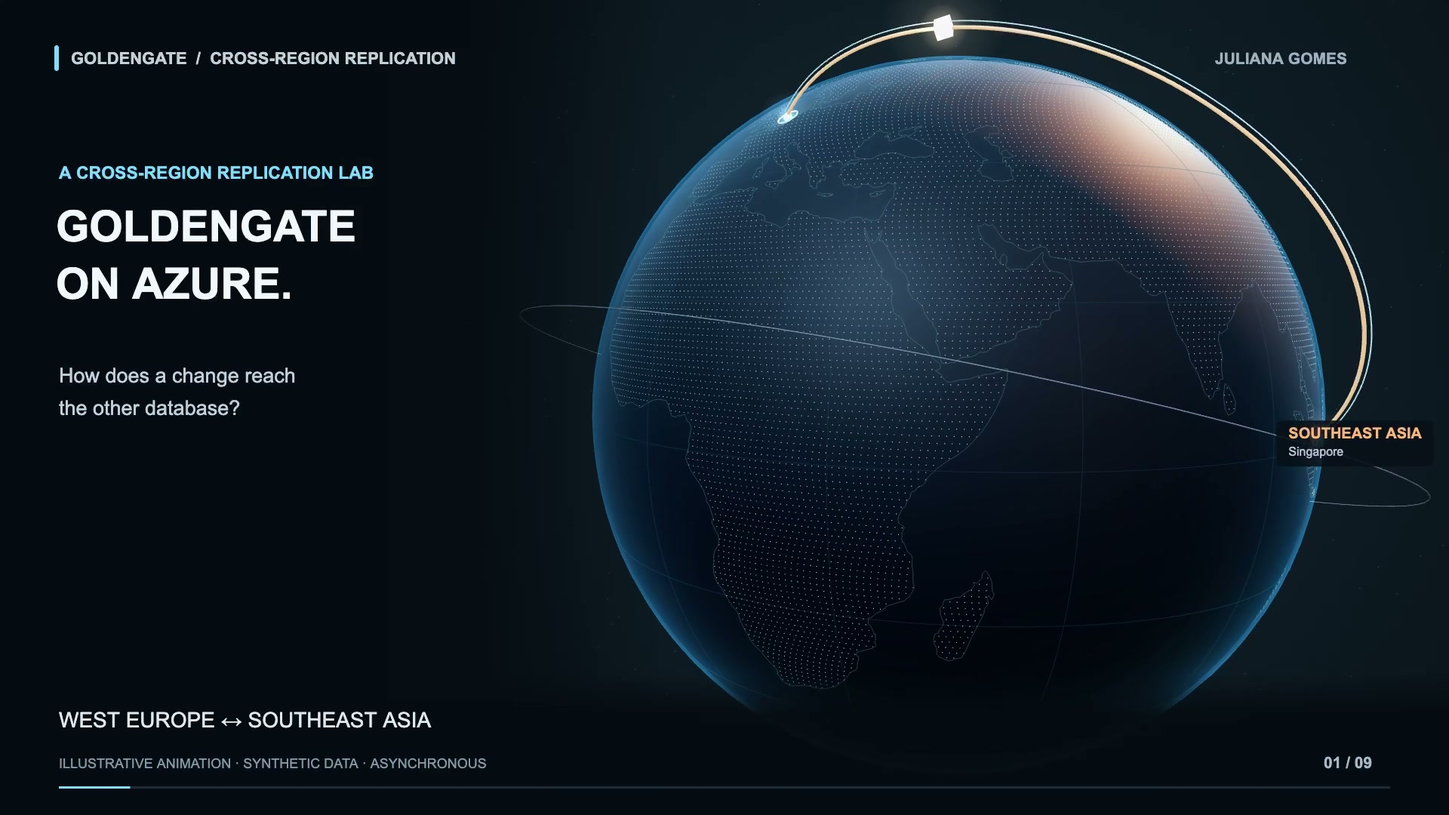
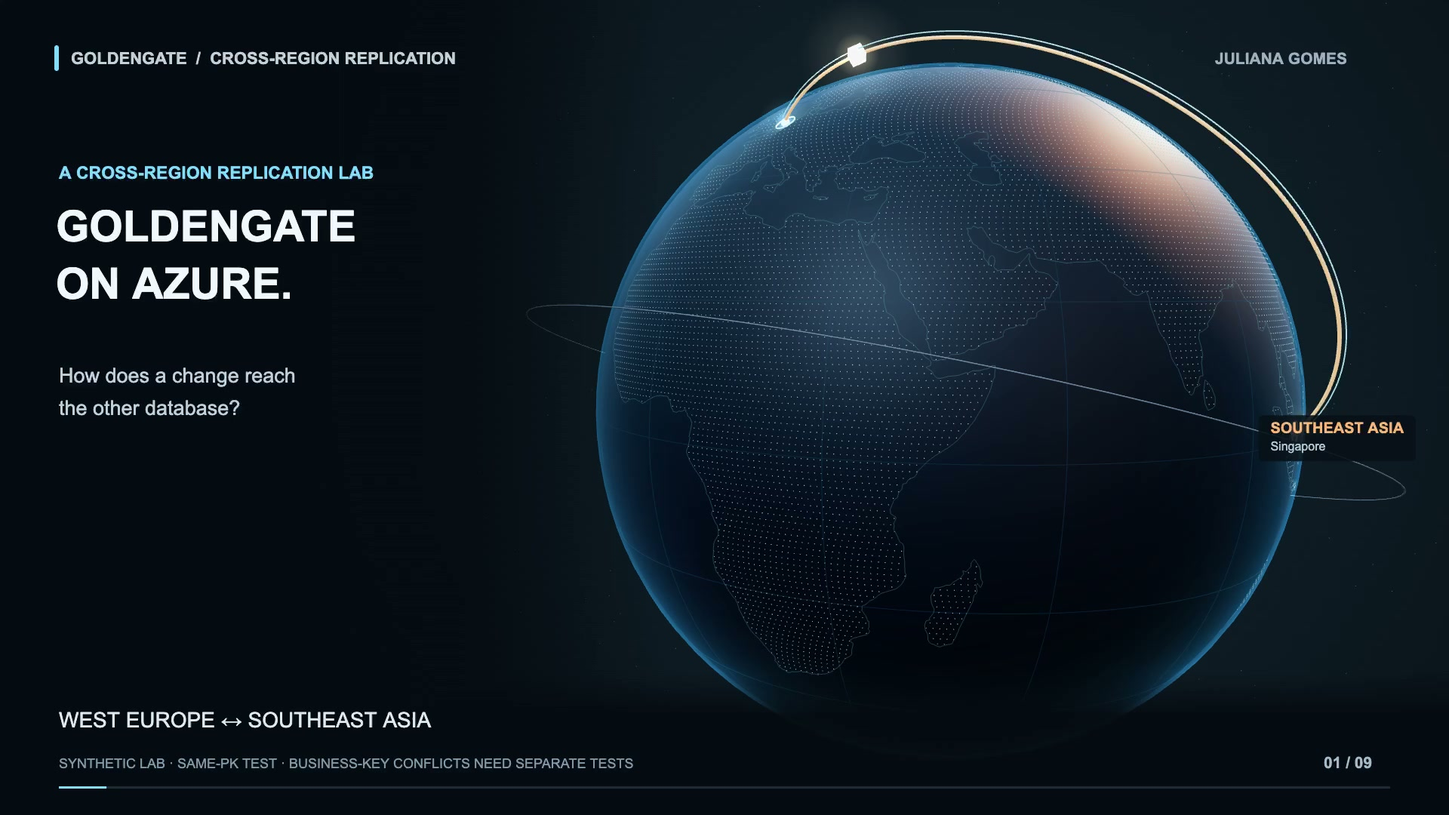
Sync reviewed content - 2026-10-20 v3
Align the public walkthrough with the reviewed Word and completed lab: same-PK Auto-CDR scope, local Replicat/Extract tag matching, network choices, and stopped lab status. Public runtime assets only.

diff --git a/model.js b/model.js
@@ -48,17 +48,19 @@
     return {nodes, edges};
   }
   const docs = {
+    tags: {kicker:'LOOP PREVENTION',title:'Match tags within each database',body:'The Replicat tags the transactions it applies. The Extract reading that same database excludes the tag, preventing those transactions from being captured again.',rows:[['WEU','RWEUP SETTAG 01 → EWEU EXCLUDETAG 01'],['SEA','RSEA SETTAG 01 → ESEA EXCLUDETAG 01'],['Choosing a value','01 on both sites is the lab choice. Different sites can use different values if each local pair matches.']],links:['replication','operations'],note:'Review the tag policy when adding replication paths. Loop prevention does not resolve application conflicts.'},
+    business: {kicker:'APPLICATION CONFLICTS',title:'Different job IDs for the same request',body:'GENERATION_JOB_ID is the primary key; EXECUTION_REQUEST_ID has a unique constraint. WEU creates job A for request X while SEA creates job B for that same request before replication arrives. Both inserts can succeed locally. Applying the other job then conflicts with the existing request key.',rows:[['What the demo proves','Two updates to the same primary key converge in the controlled test.'],['What it does not prove','How to merge different jobs, their child rows, reports or notifications.'],['Application decision','Assign request ownership or coordinate request handling. Reconcile existing duplicates with the application team.']],links:['cdr','scope'],note:'Enabling Auto-CDR or changing Replicat mode does not by itself define the business outcome. A local unique constraint cannot coordinate independent writes in two regions.'},
     overview: {kicker:'ARCHITECTURE', title:'The two-region lab', body:'I used one Autonomous Database and one GoldenGate deployment in each region. Applications can write to either database. Each deployment captures local changes and applies those received from the other region.', rows:[['Regions','Azure West Europe ↔ Southeast Asia'],['Paired OCI regions','Amsterdam for WEU; Singapore for SEA.'],['Lab sizing','Each ADB: 2 ECPUs / 20 GB. Each OGG: 1 OCPU, Development or testing. Autoscaling off.'],['Test data','The same empty table in each database, with an ID primary key.']], next:1, links:['admin','scope'], note:'These are lab settings. Size a production deployment for its workload; the drawing does not represent physical hardware or actual distances.'},
     network: {kicker:'CONNECTIVITY',title:'Configure peering, rules and DNS',body:'Start by peering each GoldenGate VNet with its local database VNet, then peer the two GoldenGate VNets across regions. Create and assign the Dedicated connections before using their Ingress IPs in destination rules. Configure private DNS and test from GoldenGate.',rows:[['Replication peerings','OGG ↔ DB in WEU; OGG ↔ DB in SEA; OGG WEU ↔ OGG SEA.'],['Advanced Networking','Registered before creating the delegated subnets in this lab.'],['Database connection','TLS / TCP 1521; no mTLS wallet in this lab.'],['GoldenGate connection','WSS / TCP 443 to the remote deployment FQDN.'],['Anchors','A global Resource Anchor maps the resource group to an OCI compartment. The regional Network Anchor identifies the network context.']],next:2,links:['rules','dns','iam','admin'],note:'VNet peering is not transitive. We used another direct peering so the administration VM could reach the remote database.'},
-    replication: {kicker:'REPLICATION',title:'Capture, transport and apply',body:'The sequence is the same in both directions: Extract writes local changes to a trail, Distribution sends the records to the other region, and the Receiver writes the incoming trail. Parallel Integrated Replicat reads it and updates the database.',rows:[['WEU → SEA','EWEU → ew → PWEU → Receiver → RSEA'],['SEA → WEU','ESEA → es → PSEA → Receiver → RWEUP'],['Loop prevention','Local Replicat SETTAG 01 matches local Extract EXCLUDETAG 01.'],['DDL','Not replicated in this lab. Keep table definitions aligned separately.']],links:['preparation','cdr','operations'],note:'The animations use fixed timing to explain the sequence. They do not show measured replication latency.'},
-    rules: {kicker:'SECURITY RULES',title:'Use the connection endpoint IP.',body:'For the database connection, permit the Dedicated connection ingress IP as a source in the database NSG. Do not assume this is the same address as the GoldenGate deployment.',rows:[['Database ingress','Dedicated DB connection ingress IP /32 → database. Case range: TCP 1521–1530; actual TLS service: 1521.'],['OGG-side egress','Allow the database destination and the remote OGG destination on their required ports.'],['OGG-to-OGG','Outbound TCP 443 and matching remote ingress. Inventory the assigned GG connection endpoints.'],['Administration','Private VM → consoles TCP 443 and databases TCP 1521, using separately scoped rules.']],links:['iam','network'],note:'The recorded lab retained broader inherited/default rules. This diagram is a flow explanation, not a complete least-privilege rules export.'},
-    dns: {kicker:'PRIVATE DNS',title:'Check DNS from GoldenGate',body:'A hostname may resolve from the administration VM but still fail from GoldenGate. In this lab, each OGG resolver has the local ADB private view and a local view containing a record for the remote GoldenGate hostname.',rows:[['Local database','Associate its private view with the OGG runtime resolver.'],['Remote GoldenGate','A private single-host zone maps the remote FQDN to its private IP. TTL: 3600.'],['Administration VM','Link the Azure private DNS zones to the VM VNet.'],['Address changes','Update static A records if an endpoint IP changes.']],links:['network'],note:'Keep the service FQDN and certificate validation enabled. After configuring DNS, test the assigned connection from GoldenGate as well as access from the VM.'},
+    replication: {kicker:'REPLICATION',title:'Capture, transport and apply',body:'The sequence is the same in both directions: Extract writes local changes to a trail, Distribution sends the records to the other region, and the Receiver writes the incoming trail. Parallel Integrated Replicat reads it and updates the database.',rows:[['WEU → SEA','EWEU → ew → PWEU → Receiver → RSEA'],['SEA → WEU','ESEA → es → PSEA → Receiver → RWEUP'],['Loop prevention','Local Replicat SETTAG 01 matches local Extract EXCLUDETAG 01.'],['DDL','Not replicated in this lab. Keep table definitions aligned separately.']],links:['preparation','tags','cdr','operations'],note:'The animations use fixed timing to explain the sequence. They do not show measured replication latency.'},
+    rules: {kicker:'SECURITY RULES',title:'Use the connection endpoint IP.',body:'For the database connection, permit the Dedicated connection ingress IP as a source in the database NSG. Do not assume this is the same address as the GoldenGate deployment.',rows:[['Database ingress','Dedicated DB connection ingress IP /32 → database. Case range: TCP 1521–1530; actual TLS service: 1521.'],['OGG-side egress','Allow the database destination and the remote OGG destination on their required ports.'],['OGG-to-OGG','Outbound TCP 443 and matching remote ingress. Inventory the assigned GG connection endpoints.'],['Administration','Private VM → consoles TCP 443 and databases TCP 1521, using separately scoped rules.']],links:['iam','network'],note:'The 1521–1530 allowance is a lab choice, not a universal requirement. Use the listener port in the actual descriptor. The recorded lab retained broader inherited/default rules. This diagram is a flow explanation, not a complete least-privilege rules export.'},
+    dns: {kicker:'PRIVATE DNS',title:'Check DNS from GoldenGate',body:'A hostname may resolve from the administration VM but still fail from GoldenGate. In this lab, each OGG resolver has the local ADB private view and a local view containing a record for the remote GoldenGate hostname.',rows:[['Local database','Associate its private view with the OGG runtime resolver.'],['Remote GoldenGate','The lab uses a private single-host zone and static A record. TTL: 3600; other DNS designs are possible.'],['Administration VM','Link the Azure private DNS zones to the VM VNet.'],['Address changes','Update static A records if an endpoint IP changes.']],links:['network'],note:'Keep the service FQDN and certificate validation enabled. After configuring DNS, test the assigned connection from GoldenGate as well as access from the VM.'},
     iam: {kicker:'ACCESS AND CREDENTIALS',title:'Use separate accounts for each task',body:'The cloud administrator creates and assigns resources. The GoldenGate console account manages replication processes, while database GGADMIN connects to the databases. Create GoldenGate-type connections in OCI for this setup.',rows:[['Database connection password','The lab used Oracle-managed encryption without a Vault secret. This is separate from how the deployment console password is configured.'],['Database login','Unlock and configure GGADMIN in both ADBs before testing database login.'],['Permissions','Check the linked subscription and OCI compartments, including inherited permissions.']],links:['network','scope'],note:'If you use Vault for a connection, configure the deployment’s access to its secrets. This example is not a complete IAM policy list.'},
     admin: {kicker:'MANAGEMENT PATH',title:'A private administration workspace.',body:'A private Windows VM accessed through Azure Bastion provides a browser inside the network. It is an administrator workstation, not a replication hop.',rows:[['Public inbound','No public NIC address or public inbound ports on the VM.'],['Remote database access','An additional direct peering connects the administration VNet to the remote DB VNet.'],['Boundary','The lab VM had default outbound Internet access. Private replication does not mean an air-gapped environment.']],links:['network'],note:'Bastion and the VM are outside the two-OGG, two-database data path shown in the main scene.'},
     preparation: {kicker:'DATABASE / GG CONSOLE',title:'Prepare both database copies.',body:'Start with aligned tables. In this lab, a simple ID primary key identifies each row. Enable minimal supplemental logging as a database administrator, then Auto-CDR as GGADMIN and the required GoldenGate table/schema logging.',rows:[['Database logging','Minimal supplemental logging enabled in both ADB PDBs; MINIMAL must return YES.'],['Auto-CDR','Run ADD_AUTO_CDR as database GGADMIN on both clean copies. Enable and unlock GGADMIN before DBLOGIN.'],['TRANDATA','Add and inspect schema/table logging using the local DB connection in each GG console.'],['Checkpoint and heartbeat','GGADMIN.GG_CHECKPOINT; heartbeat every 60 seconds, retention 30 days and daily purge.'],['Inventory','Count application tables separately from Auto-CDR auxiliary objects.']],code:"-- Generalized example; not executed by this page\n-- As database administrator, in the ADB PDB used in this lab:\nALTER PLUGGABLE DATABASE ADD SUPPLEMENTAL LOG DATA;\n-- Alternative for a database/container requiring that form:\n-- ALTER DATABASE ADD SUPPLEMENTAL LOG DATA;\n-- Select the appropriate form; do not run both blindly.\nSELECT MINIMAL FROM DBA_SUPPLEMENTAL_LOGGING;\n-- As database GGADMIN, on a clean prepared test table:\nBEGIN\n  SYS.DBMS_GOLDENGATE_ADM.ADD_AUTO_CDR(\n    'GG_LAB', 'REPLICATION_TEST');\nEND;\n/",links:['cdr','operations'],note:'Database logging does not replace TRANDATA. SEA recorded SchedulingColumns; the saved WEU screenshot did not show the full TRANDATA settings. Check each site directly rather than assuming ALLCOLS.'},
-    cdr: {kicker:'AUTO-CDR',title:'Compare the row-change timestamps',body:'For this test, we stop both Replicats and update the same row independently in each database. After restarting apply, ROW-mode Auto-CDR resolves the conflict using the row-change timestamps. Both copies end up with the later value, T2.',rows:[['Lab settings','ROW granularity; tombstones and fetchcols enabled.'],['Metadata','Hidden CDRTS$ROW tracks the row-change timestamp.'],['Conflict recording','RECORD_CONFLICTS was NO. The recorded acceptance checks used controlled writes and converged values, not a conflict-history table.'],['What we tested','A primary-key table and two controlled UPDATE/UPDATE conflicts, with a different winning region in each test.']],links:['preparation','operations'],note:'T1 and T2 in the animation are illustrative. When repeating the test, compare actual row-change timestamps; the runbook does not record a raw timestamp query. Equal timestamps, other conflict types and existing-data initialization need separate tests.'},
+    cdr: {kicker:'AUTO-CDR',title:'Compare the row-change timestamps',body:'For this test, we stop both Replicats and update the same row independently in each database. After restarting apply, ROW-mode Auto-CDR resolves the conflict using the row-change timestamps. Both copies end up with the later value, T2.',rows:[['Lab settings','ROW granularity; tombstones and fetchcols enabled.'],['Metadata','Hidden CDRTS$ROW tracks the row-change timestamp.'],['Conflict recording','RECORD_CONFLICTS was NO. The recorded acceptance checks used controlled writes and converged values, not a conflict-history table.'],['What we tested','A primary-key table and two controlled UPDATE/UPDATE conflicts, with a different winning region in each test.']],links:['preparation','business','operations'],note:'T1 and T2 in the animation are illustrative. When repeating the test, compare actual row-change timestamps; the runbook does not record a raw timestamp query. Equal timestamps, other conflict types and existing-data initialization need separate tests.'},
     operations: {kicker:'MONITORING AND RESTART',title:'Checkpoints and heartbeat tables',body:'Checkpoints record how far each process has progressed. Heartbeat tables help measure replication lag. Check both, along with process reports and the data in the target tables.',rows:[['Checkpoint table','GGADMIN.GG_CHECKPOINT in each database, selected for its Replicat.'],['Heartbeat','60-second frequency, 30-day retention and daily purge in this lab.'],['Trails','Each site has an outgoing trail and a trail received from the other site.'],['Restart','Resume from the saved checkpoints. Do not reset an existing stream to sequence 0 / RBA 0.']],links:['replication'],note:'A 60-second heartbeat interval is not a latency guarantee. This lab does not establish production capacity or recovery targets.'},
-    scope: {kicker:'ABOUT THE EXAMPLE',title:'What this lab demonstrates',body:'The example shows a private, two-region setup using synthetic data and generalized names. It explains an INSERT and a controlled update conflict; it does not connect to a database or change any cloud resources.',rows:[['Included','Architecture, private networking, INSERT replication and UPDATE/UPDATE Auto-CDR.'],['Not tested here','All key and data-type combinations, delete conflicts, equal timestamps, failover and production performance.'],['Before using existing data','Plan an initial synchronization and matching Auto-CDR initialization. The INSERT test here starts with empty tables.']],links:['overview']}
+    scope: {kicker:'ABOUT THE EXAMPLE',title:'What this lab demonstrates',body:'The example shows a private, two-region setup using synthetic data and generalized names. It explains an INSERT and a controlled update conflict; it does not connect to a database or change any cloud resources.',rows:[['Included','Architecture, private networking, INSERT replication and UPDATE/UPDATE Auto-CDR.'],['Not tested here','Different primary keys sharing a business key, all data types, delete conflicts, foreign-key recovery, equal timestamps, failover and production performance.'],['Before using existing data','Plan an initial synchronization and matching Auto-CDR initialization. The INSERT test here starts with empty tables.']],links:['overview']}
   };
   function detail(id, layer) {
     if (docs[id]) return docs[id];
@@ -68,11 +70,11 @@
     if (kind === 'ogg') return {...base,title:'GoldenGate deployment',body:'One regional deployment owns capture, distribution, receiver and apply services. Its local database connection and remote GG connection are separately created and assigned.',rows:[['Version / sizing','23.26.3.0.6 · 1 OCPU · lab autoscaling off'],['Assigned connections','Local ADB TLS + remote GoldenGate'],['Endpoints','Dedicated for all four connections in the lab'],['Remote destination',names[peer]+' · FQDN · WSS 443']],next:layer===0?1:2,links:['iam','dns'],note:'A network connection is not the same object as a Distribution Path.'};
     if (kind === 'endpoint') return {...docs.rules,kicker:names[site]+' / DEDICATED ENDPOINT',title:'A connection with its own network identity.',rows:[['Assignment','Local database connection → local OGG deployment'],['Endpoint mode','Dedicated'],['Database mode','DIRECT · TLS · GGADMIN'],['NSG source','The connection ingress IP /32, not an assumed deployment IP']],code:'ssl_server_dn_match=yes\nProtocol: TLS\nPort: 1521\nCredential encryption: Oracle-managed'};
     if (kind === 'dns') return {...docs.dns,kicker:names[site]+' / DNS'};
-    if (kind === 'extract') return {...base,title:p.extract+' · Integrated Extract',body:'Local integrated capture reads local database changes and writes the outgoing trail. Downstream capture is OFF. Replicat-tagged transactions are excluded from recapture.',rows:[['Capture site',names[site]],['Output trail',p.trail],['Registration','Register capture with the local database before starting.']],code:'EXTRACT '+p.extract+'\nUSERIDALIAS adb'+site.toLowerCase()+' DOMAIN OracleGoldenGate\nEXTTRAIL '+p.trail+'\nTRANLOGOPTIONS EXCLUDETAG 01\nLOGALLSUPCOLS\nTABLE GG_LAB.REPLICATION_TEST;',links:['preparation','operations']};
+    if (kind === 'extract') return {...base,title:p.extract+' · Integrated Extract',body:'Local integrated capture reads local database changes and writes the outgoing trail. Downstream capture is OFF. Replicat-tagged transactions are excluded from recapture.',rows:[['Capture site',names[site]],['Output trail',p.trail],['Registration','Register capture with the local database before starting.']],code:'EXTRACT '+p.extract+'\nUSERIDALIAS adb_'+site.toLowerCase()+' DOMAIN OracleGoldenGate\nEXTTRAIL '+p.trail+'\nTRANLOGOPTIONS EXCLUDETAG 01\nLOGALLSUPCOLS\nTABLE GG_LAB.REPLICATION_TEST;',links:['preparation','operations']};
     if (kind === 'trail') return {...base,title:p.trail+' · local trail',body:'The durable outgoing trail separates capture from delivery. Distribution reads it and transports records to the other region.',rows:[['Producer',p.extract],['Consumer',p.distribution],['Destination trail',p.trail+' on '+peer]],links:['operations'],note:'A trail is not the database redo log. Retention must account for downstream consumption and recovery.'};
-    if (kind === 'distribution') return {...base,title:p.distribution+' · Distribution',body:'The outgoing path sends local trail records to the remote Receiver using the assigned GoldenGate connection.',rows:[['Source trail',p.trail],['Target',peer+' deployment FQDN:443'],['Protocol','WSS'],['Authentication','Path Connection · Network:gg'+site.toLowerCase()+'to'+peer.toLowerCase()]],code:'wss://<remote-deployment-fqdn>:443/\nservices/v2/targets?trail='+p.trail,links:['network','dns'],note:'Create and assign the GoldenGate-type connection in OCI. Use its Path Connection alias in the GG console.'};
+    if (kind === 'distribution') return {...base,title:p.distribution+' · Distribution',body:'The outgoing path sends local trail records to the remote Receiver using the assigned GoldenGate connection.',rows:[['Source trail',p.trail],['Target',peer+' deployment FQDN:443'],['Protocol','WSS'],['Authentication','Path Connection · Network:gg_'+site.toLowerCase()+'_to_'+peer.toLowerCase()]],code:'wss://<remote-deployment-fqdn>:443/\nservices/v2/targets?trail='+p.trail,links:['network','dns'],note:'Create and assign the GoldenGate-type connection in OCI. Use its Path Connection alias in the GG console.'};
     if (kind === 'receiver') return {...base,title:'Receiver · incoming '+processes(peer).trail,body:'The Receiver accepts the remote Distribution stream and writes an incoming trail. Replicat consumes that trail locally.',rows:[['Incoming origin',names[peer]],['Local trail',processes(peer).trail],['Apply consumer',p.replicat]],links:['operations']};
-    if (kind === 'replicat') return {...base,title:p.replicat+' · Parallel Integrated',body:'The local Replicat applies changes originating in the other region. Auto-CDR resolves the demonstrated timestamp conflict during apply. Applied transactions are tagged to prevent recapture.',rows:[['Input trail',processes(peer).trail],['Target DB',names[site]],['Checkpoint','GGADMIN.GG_CHECKPOINT']],code:'REPLICAT '+p.replicat+'\nUSERIDALIAS adb'+site.toLowerCase()+' DOMAIN OracleGoldenGate\nDBOPTIONS SETTAG 01\nMAPINVISIBLECOLUMNS\nMAP GG_LAB.REPLICATION_TEST,\n  TARGET GG_LAB.REPLICATION_TEST;',links:['cdr','operations'],note:'Both sites use SETTAG 01 / EXCLUDETAG 01 locally. This is loop prevention, not conflict resolution.'};
+    if (kind === 'replicat') return {...base,title:p.replicat+' · Parallel Integrated',body:'The local Replicat applies changes originating in the other region. Auto-CDR resolves the demonstrated timestamp conflict during apply. Applied transactions are tagged to prevent recapture.',rows:[['Input trail',processes(peer).trail],['Target DB',names[site]],['Checkpoint','GGADMIN.GG_CHECKPOINT']],code:'REPLICAT '+p.replicat+'\nUSERIDALIAS adb_'+site.toLowerCase()+' DOMAIN OracleGoldenGate\nDBOPTIONS SETTAG 01\nMAPINVISIBLECOLUMNS\nMAP GG_LAB.REPLICATION_TEST,\n  TARGET GG_LAB.REPLICATION_TEST;',links:['cdr','operations'],note:'Pair RWEUP with EWEU in WEU and RSEA with ESEA in SEA. 01 is the lab choice; match each local pair. This prevents loops, not application conflicts.'};
     return docs.overview;
   }
   function walkthrough(type, site) {

diff --git a/index.html b/index.html
@@ -4,16 +4,16 @@
   <meta charset="utf-8"><meta name="viewport" content="width=device-width,initial-scale=1">
   <meta name="description" content="See how Oracle GoldenGate replicates data between two private Autonomous Databases on Azure, from capturing an INSERT to resolving conflicting updates with Auto-CDR.">
   <title>Oracle GoldenGate on Azure — Cross-region replication</title>
-  <link rel="stylesheet" href="cinema.css">
-  <script defer src="three.min.js"></script><script defer src="model.js?v=2026-10-19-v2"></script><script defer src="playback.js"></script><script defer src="cinema.js"></script>
+  <link rel="stylesheet" href="cinema.css?v=2026-10-20-v3">
+  <script defer src="three.min.js"></script><script defer src="model.js?v=2026-10-20-v3"></script><script defer src="playback.js?v=2026-10-20-v3"></script><script defer src="cinema.js?v=2026-10-20-v3"></script>
   <link rel="icon" href="favicon.svg" type="image/svg+xml">
   <meta name="author" content="Juliana Gomes">
   <meta property="og:type" content="website">
   <meta property="og:title" content="Oracle GoldenGate on Azure — Cross-region replication">
-  <meta property="og:description" content="Explore two private databases, follow an INSERT across regions, and see how Auto-CDR resolves conflicting updates.">
+  <meta property="og:description" content="Explore private replication, follow an INSERT, and see a controlled Auto-CDR update conflict on the same primary key.">
   <meta property="og:url" content="https://jubss1607.github.io/goldengate-on-azure/">
-  <meta property="og:image" content="https://jubss1607.github.io/goldengate-on-azure/social-preview.jpg?v=2026-10-19-v2">
-  <meta name="revision" content="2026-10-19-v2">
+  <meta property="og:image" content="https://jubss1607.github.io/goldengate-on-azure/social-preview.jpg?v=2026-10-20-v3">
+  <meta name="revision" content="2026-10-20-v3">
   <meta name="twitter:card" content="summary_large_image">
 </head>
 <body>
@@ -24,17 +24,17 @@
   <nav class="rail" aria-label="Jump to a step"><a href="#world" aria-label="1. Introduction"><span>01</span></a><a href="#regions" aria-label="2. Regional architecture"><span>02</span></a><a href="#network" aria-label="3. Private networking"><span>03</span></a><a href="#capture" aria-label="4. Capture an INSERT"><span>04</span></a><a href="#transit" aria-label="5. Send the trail"><span>05</span></a><a href="#apply" aria-label="6. Receive and apply"><span>06</span></a><a href="#conflict" aria-label="7. Conflicting updates"><span>07</span></a><a href="#converge" aria-label="8. Resolve the conflict"><span>08</span></a><a href="#continuity" aria-label="9. Prevent replication loops"><span>09</span></a></nav>
   <main>
     <div id="journey">
-      <section class="chapter hero active" id="world" data-scene="0"><div class="copy"><p class="eyebrow"><span class="live-dot"></span> A CROSS-REGION REPLICATION LAB</p><h1>GOLDENGATE<br><em>ON AZURE.</em></h1><p class="lede">How does a change reach<br>the other database?</p><p class="intro-description">In this lab, I use two private Autonomous Databases. We’ll follow an INSERT from West Europe to Southeast Asia, then test conflicting updates.</p><a class="start-link" href="#regions"><span class="circle-arrow">↓</span> START WITH THE ARCHITECTURE</a></div><div class="hero-caption"><span>WEST EUROPE <i>↔</i> SOUTHEAST ASIA</span><small>ONE DATABASE AND ONE GOLDENGATE DEPLOYMENT IN EACH REGION</small></div></section>
+      <section class="chapter hero active" id="world" data-scene="0"><div class="copy"><p class="eyebrow"><span class="live-dot"></span> A CROSS-REGION REPLICATION LAB</p><h1>GOLDENGATE<br><em>ON AZURE.</em></h1><p class="lede">How does a change reach<br>the other database?</p><p class="intro-description">In this lab, applications can write to a private database in either region. We’ll follow an INSERT across regions, then test two updates to the same primary key.</p><a class="start-link" href="#regions"><span class="circle-arrow">↓</span> START WITH THE ARCHITECTURE</a></div><div class="hero-caption"><span>WEST EUROPE <i>↔</i> SOUTHEAST ASIA</span><small>ONE DATABASE AND ONE GOLDENGATE DEPLOYMENT IN EACH REGION</small></div></section>
       <section class="chapter" id="regions" data-scene="1"><div class="copy"><p class="eyebrow">01 / ARCHITECTURE</p><h2>ONE PAIR<br><em>PER REGION.</em></h2><p class="lede">Each database has a local<br>GoldenGate deployment.</p><p>Applications can write to either database. GoldenGate captures local changes and applies those received from the other region. The two databases are replicated asynchronously.</p><button class="text-link" data-note="overview">View the lab configuration <span>↗</span></button></div><div class="scene-caption">LOCAL CAPTURE AND APPLY IN BOTH REGIONS</div></section>
-      <section class="chapter" id="network" data-scene="2"><div class="copy"><p class="eyebrow">02 / PRIVATE CONNECTIVITY</p><h2>CONNECT<br><em>THE REGIONS.</em></h2><p class="lede">First, let’s look at the network.</p><p>Each deployment connects to its local database over TLS. The deployments exchange trails over WSS. VNet peering, security rules and private DNS support these connections.</p><div class="chips"><span>TLS / 1521</span><span>WSS / 443</span></div><button class="text-link" data-note="network">Check the network settings <span>↗</span></button></div><div class="scene-caption">TWO LOCAL OGG–DB PEERINGS · ONE CROSS-REGION OGG PEERING</div></section>
+      <section class="chapter" id="network" data-scene="2"><div class="copy"><p class="eyebrow">02 / PRIVATE CONNECTIVITY</p><h2>CONNECT<br><em>THE REGIONS.</em></h2><p class="lede">First, let’s look at the network.</p><p>Each deployment connects to its local database over TLS. The deployments exchange trails over WSS. VNet peering, security rules and private DNS support these connections.</p><div class="chips"><span>TLS / 1521</span><span>WSS / 443</span></div><button class="text-link" data-note="network">Check the network settings <span>↗</span></button></div><div class="scene-caption">LAB ROUTES: TWO LOCAL OGG–DB PAIRS + ONE CROSS-REGION OGG PAIR</div></section>
       <section class="chapter" id="capture" data-scene="3"><div class="copy"><p class="eyebrow">03 / INTEGRATED EXTRACT</p><h2>CAPTURE<br><em>AN INSERT.</em></h2><p class="lede">We insert row 101 in West Europe<br>and commit the transaction.</p><p>EWEU captures the change from the local database and writes it to trail ew. At this point, row 101 is not yet in the Southeast Asia database.</p><div class="sql"><span>INSERT INTO</span> REPLICATION_TEST<br><span>VALUES</span> (101, 'WEU', 'NEW_ROW');<br><span>COMMIT;</span></div><button class="text-link" data-note="WEU-extract">View the Extract parameters <span>↗</span></button></div><div class="scene-caption">LOCAL INTEGRATED EXTRACT · DOWNSTREAM CAPTURE DISABLED</div></section>
       <section class="chapter transit" id="transit" data-scene="4"><div class="copy"><p class="eyebrow">04 / DISTRIBUTION PATH</p><h2>SEND THE<br><em>TRAIL.</em></h2><p class="lede">PWEU sends the record<br>to Southeast Asia.</p><p>The Distribution Path reads trail ew and connects to the remote Receiver using WSS on port 443. It uses the assigned GoldenGate connection and the remote deployment’s FQDN.</p><button class="text-link" data-note="WEU-distribution">View the Distribution Path <span>↗</span></button></div><div class="scene-caption">DEDICATED GOLDENGATE CONNECTION · WSS / TCP 443</div></section>
       <section class="chapter" id="apply" data-scene="5"><div class="copy"><p class="eyebrow">05 / RECEIVER AND REPLICAT</p><h2>APPLY THE<br><em>INSERT.</em></h2><p class="lede">The record has arrived.<br>Now Replicat applies it.</p><p>The Receiver writes the incoming trail. RSEA reads that trail and inserts row 101 into the Southeast Asia database. Both databases now contain the row.</p><button class="text-link" data-note="SEA-replicat">View the Replicat parameters <span>↗</span></button></div><div class="scene-caption" id="apply-caption">RECEIVER → INCOMING TRAIL → RSEA → DATABASE</div></section>
-      <section class="chapter conflict" id="conflict" data-scene="6"><div class="copy"><p class="eyebrow">06 / UPDATE CONFLICT TEST</p><h2>UPDATE<br><em>THE SAME ROW.</em></h2><p class="lede">What happens if both regions<br>update row 101?</p><p>For this test, start with matching copies and stop both Replicats. Leave Extracts and Distribution Paths running. Update the row in WEU at T1, then in SEA at T2.</p><span class="inline-note">The row-change timestamp T2 is later than T1.</span></div><div class="scene-caption">BOTH REPLICATS STOPPED · CAPTURE AND TRANSPORT STILL RUNNING</div></section>
-      <section class="chapter" id="converge" data-scene="7"><div class="copy"><p class="eyebrow">07 / AUTO-CDR</p><h2>RESOLVE<br><em>THE CONFLICT.</em></h2><p class="lede">Restart both Replicats<br>and compare the values.</p><p>With ROW-mode Auto-CDR, the later row-change timestamp determines the result in this test. SEA retains T2, and WEU applies T2 over T1.</p><span class="inline-note">Reversing the timestamp order would change the result; SEA has no priority.</span><button class="text-link" data-note="cdr">Read the Auto-CDR details <span>↗</span></button></div><div class="scene-caption" id="converge-caption">BOTH DATABASES NOW HOLD THE T2 VALUE</div></section>
-      <section class="chapter finale" id="continuity" data-scene="8"><div class="copy"><p class="eyebrow">08 / LOOP PREVENTION AND MONITORING</p><h2>PREVENT<br><em>LOOPS.</em></h2><p class="lede">The applied transaction must not<br>be captured again.</p><p>Each Replicat sets tag 01, and its local Extract excludes that tag. Checkpoints record progress; heartbeat tables help you check replication lag.</p><a href="#technical" class="start-link"><span class="circle-arrow">↓</span> READ THE TECHNICAL NOTES</a></div><div class="scene-caption">SETTAG 01 + EXCLUDETAG 01 · CHECKPOINTS · HEARTBEAT TABLES</div></section>
+      <section class="chapter conflict" id="conflict" data-scene="6"><div class="copy"><p class="eyebrow">06 / UPDATE CONFLICT TEST</p><h2>UPDATE<br><em>THE SAME ROW.</em></h2><p class="lede">Both regions update row 101.<br>The primary key is the same.</p><p>For this test, start with matching copies and stop both Replicats. Leave Extracts and Distribution Paths running. Update the row in WEU at T1, then in SEA at T2.</p><span class="inline-note">The row-change timestamp T2 is later than T1.</span></div><div class="scene-caption">SAME PRIMARY KEY · APPLY PAUSED · CAPTURE AND TRANSPORT RUNNING</div></section>
+      <section class="chapter" id="converge" data-scene="7"><div class="copy"><p class="eyebrow">07 / AUTO-CDR</p><h2>RESOLVE<br><em>THE CONFLICT.</em></h2><p class="lede">Resume apply and compare.<br>This test uses the same PK.</p><p>With ROW-mode Auto-CDR, the later row-change timestamp determines the result in this test. SEA retains T2, and WEU applies T2 over T1.</p><span class="inline-note">SEA has no priority. Different job IDs for the same request need separate application tests.</span><button class="text-link" data-note="cdr">Read the Auto-CDR details <span>↗</span></button></div><div class="scene-caption" id="converge-caption">BOTH DATABASES NOW HOLD THE T2 VALUE</div></section>
+      <section class="chapter finale" id="continuity" data-scene="8"><div class="copy"><p class="eyebrow">08 / LOOP PREVENTION AND MONITORING</p><h2>PREVENT<br><em>LOOPS.</em></h2><p class="lede">Match the Replicat tag to its<br>local Extract exclusion.</p><p>In WEU, pair RWEUP with EWEU. In SEA, pair RSEA with ESEA. Both pairs use tag 01 in this lab; other designs may use different values. Checkpoints record progress, and heartbeat tables help you check lag.</p><a href="#technical" class="start-link"><span class="circle-arrow">↓</span> READ THE TECHNICAL NOTES</a></div><div class="scene-caption">WEU: RWEUP → EWEU · SEA: RSEA → ESEA · MATCH TAGS LOCALLY</div></section>
     </div>
-    <section id="technical" class="technical"><div class="notes-heading"><p class="eyebrow">CONFIGURATION AND TEST DETAILS</p><h2>SETUP<br><em>NOTES.</em></h2><p>Here are the settings used in the lab, along with the checks to make before starting replication.</p></div><div class="notes-grid" id="notes-grid"></div><div class="scenario-text"><h3>Read the tests step by step</h3><div id="scenario-text"></div></div><div class="related-reading"><h3>Related articles</h3><p>These Oracle blog posts cover the setup in more detail. Their topologies and versions differ from this two-deployment lab.</p><ul><li><a href="https://blogs.oracle.com/dataintegration/using-oci-goldengate-for-multi-region-data-replication-between-oracle-databases-with-virtual-cloud-network-vcn-peering" target="_blank" rel="noopener">Multi-region replication with OCI GoldenGate and VCN peering — Juliana Gomes</a></li><li><a href="https://blogs.oracle.com/dataintegration/part-2-configuring-realtime-data-replication-with-goldengate-within-oracle-databaseazure" target="_blank" rel="noopener">Configuring replication with GoldenGate on Oracle AI Database@Azure</a></li><li><a href="https://blogs.oracle.com/dataintegration/configuring-oci-goldengate-with-data-guard-enabled-databases" target="_blank" rel="noopener">Configuring OCI GoldenGate with Data Guard enabled databases</a></li></ul></div><footer><p>This page illustrates a lab using synthetic data. It does not connect to your databases or show live process status.</p><p>The example uses two databases and two GoldenGate deployments.<br>Production workloads need their own security, sizing and recovery tests.</p><a href="#world">Back to the beginning ↑</a><p class="credits">Visual references: <a href="https://www.igloo.inc/" target="_blank" rel="noopener">Igloo</a> · <a href="https://lusion.co/" target="_blank" rel="noopener">Lusion</a> · <a href="https://www.apple.com/airpods-pro/" target="_blank" rel="noopener">Apple</a>. Original artwork and motion.<br>Geography: <a href="https://www.naturalearthdata.com/about/terms-of-use/" target="_blank" rel="noopener">Natural Earth</a>, public domain. Three.js r160, MIT.</p></footer></section>
+    <section id="technical" class="technical"><div class="notes-heading"><p class="eyebrow">CONFIGURATION AND TEST DETAILS</p><h2>SETUP<br><em>NOTES.</em></h2><p>Here are the settings used in the lab, along with the checks to make before starting replication.</p></div><div class="notes-grid" id="notes-grid"></div><div class="scenario-text"><h3>Read the tests step by step</h3><div id="scenario-text"></div></div><div class="related-reading"><h3>Related articles</h3><p>These Oracle blog posts cover the setup in more detail. Their topologies and versions differ from this two-deployment lab.</p><ul><li><a href="https://blogs.oracle.com/dataintegration/using-oci-goldengate-for-multi-region-data-replication-between-oracle-databases-with-virtual-cloud-network-vcn-peering" target="_blank" rel="noopener">Multi-region replication with OCI GoldenGate and VCN peering — Juliana Gomes</a></li><li><a href="https://blogs.oracle.com/dataintegration/part-2-configuring-realtime-data-replication-with-goldengate-within-oracle-databaseazure" target="_blank" rel="noopener">Configuring replication with GoldenGate on Oracle AI Database@Azure</a></li><li><a href="https://blogs.oracle.com/dataintegration/configuring-oci-goldengate-with-data-guard-enabled-databases" target="_blank" rel="noopener">Configuring OCI GoldenGate with Data Guard enabled databases</a></li></ul></div><footer><p>Revision 20 October 2026. This page illustrates the completed lab using synthetic data. Both databases and GoldenGate deployments were stopped after testing; this is not live process status. Retained storage and auxiliary services may still incur charges.</p><p>The example uses two databases and two GoldenGate deployments.<br>Production workloads need their own security, sizing and recovery tests.</p><a href="#world">Back to the beginning ↑</a><p class="credits">Visual references: <a href="https://www.igloo.inc/" target="_blank" rel="noopener">Igloo</a> · <a href="https://lusion.co/" target="_blank" rel="noopener">Lusion</a> · <a href="https://www.apple.com/airpods-pro/" target="_blank" rel="noopener">Apple</a>. Original artwork and motion.<br>Geography: <a href="https://www.naturalearthdata.com/about/terms-of-use/" target="_blank" rel="noopener">Natural Earth</a>, public domain. Three.js r160, MIT.</p></footer></section>
   </main>
   <div class="bottom-bar"><span id="bottom-title">SCROLL TO THE NEXT STEP</span><button id="replay" hidden>↻ Replay animation</button><div class="progress-track"><i id="progress"></i></div><span id="percent">0%</span></div>
   <div class="row-hud" id="row-hud" hidden aria-label="Illustrative state of row 101"><div class="row-copy weu"><small>WEST EUROPE / 101</small><strong id="row-weu">—</strong><span id="time-weu">—</span></div><span class="row-divider" id="row-divider">→</span><div class="row-copy sea"><small>SOUTHEAST ASIA / 101</small><strong id="row-sea">—</strong><span id="time-sea">—</span></div></div>

diff --git a/cinema.js b/cinema.js
@@ -170,7 +170,7 @@
     $('scene-kind').textContent=titles[ch];$('scene-number').textContent=String(ch+1).padStart(2,'0')+' / 09';$('bottom-title').textContent=ended?'TECHNICAL NOTES':titles[ch];$('progress').style.transform='scaleX('+state.progress+')';$('percent').textContent=Math.round(state.progress*100)+'%';
     modelFrame=frameFor(ch,p);const hud=$('row-hud');hud.hidden=!modelFrame||ch===8||ended;
     if(modelFrame){['WEU','SEA'].forEach(s=>{$('row-'+s.toLowerCase()).textContent=modelFrame.rows[s].value;$('time-'+s.toLowerCase()).textContent=modelFrame.rows[s].time;});const equal=modelFrame.rows.WEU.value===modelFrame.rows.SEA.value;hud.classList.toggle('converged',equal&&modelFrame.rows.WEU.value!=='BASE');$('row-divider').textContent=ch<6?'→':equal?'=':'≠';}
-    $('converge-caption').textContent=ch===7&&p<.53?'SEA KEEPS T2 WHEN THE OLDER T1 UPDATE ARRIVES':'WEU APPLIES T2 · BOTH DATABASES HAVE THE SAME VALUE';
+    $('converge-caption').textContent=ch===7&&p<.53?'SAME-PK TEST: SEA KEEPS T2 WHEN THE OLDER UPDATE ARRIVES':'SAME-PK TEST: WEU APPLIES T2 · BOTH COPIES CONVERGE';
     $('apply-caption').textContent=ch===5&&p<.52?'RECORD RECEIVED · ROW 101 IS NOT IN THE TARGET YET':'RSEA INSERTS ROW 101 · THE TRANSACTION IS TAGGED 01';
     $('chapter-hud').hidden=ended;document.querySelector('.rail').style.opacity=ended?'0':'1';
     $('replay').hidden=ended||ch===0||ch===8;
@@ -242,7 +242,7 @@
   function noteMarkup(id){const d=M.detail(id,0);return '<p class="eyebrow">'+d.kicker+'</p><h2>'+d.title+'</h2><div class="note-body"><p>'+d.body+'</p>'+(d.rows?'<dl>'+d.rows.map(([a,b])=>'<dt>'+a+'</dt><dd>'+b+'</dd>').join('')+'</dl>':'')+(d.code?'<pre></pre>':'')+(d.note?'<p class="note-warning">'+d.note+'</p>':'')+'<div class="note-actions">'+(d.links||[]).map(link=>'<button data-note="'+link+'">'+M.detail(link,0).kicker+' ↗</button>').join('')+'</div></div>';}
   function openNote(id){const d=M.detail(id,0);$('note-content').innerHTML=noteMarkup(id);if(d.code)$('note-content').querySelector('pre').textContent=d.code;if(!$('note-dialog').open)$('note-dialog').showModal();$('note-dialog').scrollTop=0;}
   function setupContent(){
-    ['overview','network','rules','dns','iam','preparation','replication','cdr','operations','scope'].forEach((id,i)=>{const d=M.detail(id,0),el=document.createElement('details');el.className='note-item';el.innerHTML='<summary><span>'+String(i+1).padStart(2,'0')+' / '+d.title+'</span></summary><div>'+noteMarkup(id)+'</div>';el.querySelector('h2').remove();el.querySelector('.eyebrow').remove();if(d.code)el.querySelector('pre').textContent=d.code;$('notes-grid').append(el);});
+    ['overview','network','rules','dns','iam','preparation','replication','tags','cdr','business','operations','scope'].forEach((id,i)=>{const d=M.detail(id,0),el=document.createElement('details');el.className='note-item';el.innerHTML='<summary><span>'+String(i+1).padStart(2,'0')+' / '+d.title+'</span></summary><div>'+noteMarkup(id)+'</div>';el.querySelector('h2').remove();el.querySelector('.eyebrow').remove();if(d.code)el.querySelector('pre').textContent=d.code;$('notes-grid').append(el);});
     $('scenario-text').innerHTML=['insert','conflict'].map(type=>'<h4>'+ (type==='insert'?'An INSERT, end to end':'Two conflicting UPDATEs, then convergence')+'</h4><ol>'+M.walkthrough(type,type==='insert'?'WEU':'SEA').map(f=>'<li><strong>'+f.title+'.</strong> '+f.body+'</li>').join('')+'</ol>').join('');
     on(document,'click',e=>{const b=e.target.closest('[data-note]');if(b)openNote(b.dataset.note);const anchor=e.target.closest('a[href^="#"]');if(anchor){const target=document.getElementById(anchor.hash.slice(1));if(target?.classList.contains('chapter')){e.preventDefault();history.replaceState(null,'',anchor.hash);window.scrollTo({top:target.offsetTop,behavior:'instant'});playback.replay();readScroll();}}});on(document.querySelector('.close-dialog'),'click',()=>$('note-dialog').close());on($('note-dialog'),'click',e=>{if(e.target===$('note-dialog')){const r=e.target.getBoundingClientRect();if(e.clientX<r.left||e.clientX>r.right||e.clientY<r.top||e.clientY>r.bottom)e.target.close();}});
     $('motion').setAttribute('aria-label',state.paused?'Resume motion':'Pause motion');

diff --git a/README.md b/README.md
@@ -2,9 +2,9 @@
 
 An interactive, English-language walkthrough of private cross-region replication between two Autonomous Databases, with one GoldenGate deployment in each Azure region.
 
-Explore the globe, regional architecture, private networking, INSERT capture and apply, conflicting updates, Auto-CDR, and loop prevention.
+Explore the globe, regional architecture, private networking, INSERT capture and apply, same-PK update conflicts, Auto-CDR and local Replicat/Extract tag matching. Technical notes distinguish different primary keys sharing a business request, a separate application conflict.
 
-Revision 2026-10-19 v2. The opening is “GOLDENGATE ON AZURE.” Video chapter copy is generated from the same cinematic source. Technical notes cover database/PDB supplemental logging, TRANDATA, checkpoint and heartbeat setup. Recorded lab acceptance is distinguished from illustrative T1/T2 timestamps and recommended checks.
+Revision 2026-10-20 v3. The opening is “GOLDENGATE ON AZURE.” Video chapter copy is generated from the same cinematic source. Technical notes cover database/PDB supplemental logging, TRANDATA, checkpoint and heartbeat setup. Recorded lab acceptance is distinguished from illustrative T1/T2 timestamps and recommended checks. Both databases and deployments were stopped on 20 October after testing; the animation is not live status.
 
 This is an educational lab visualization with synthetic data. It has no database connections, cloud API calls, analytics or credentials. It does not represent measured latency or certify a production configuration.
 
